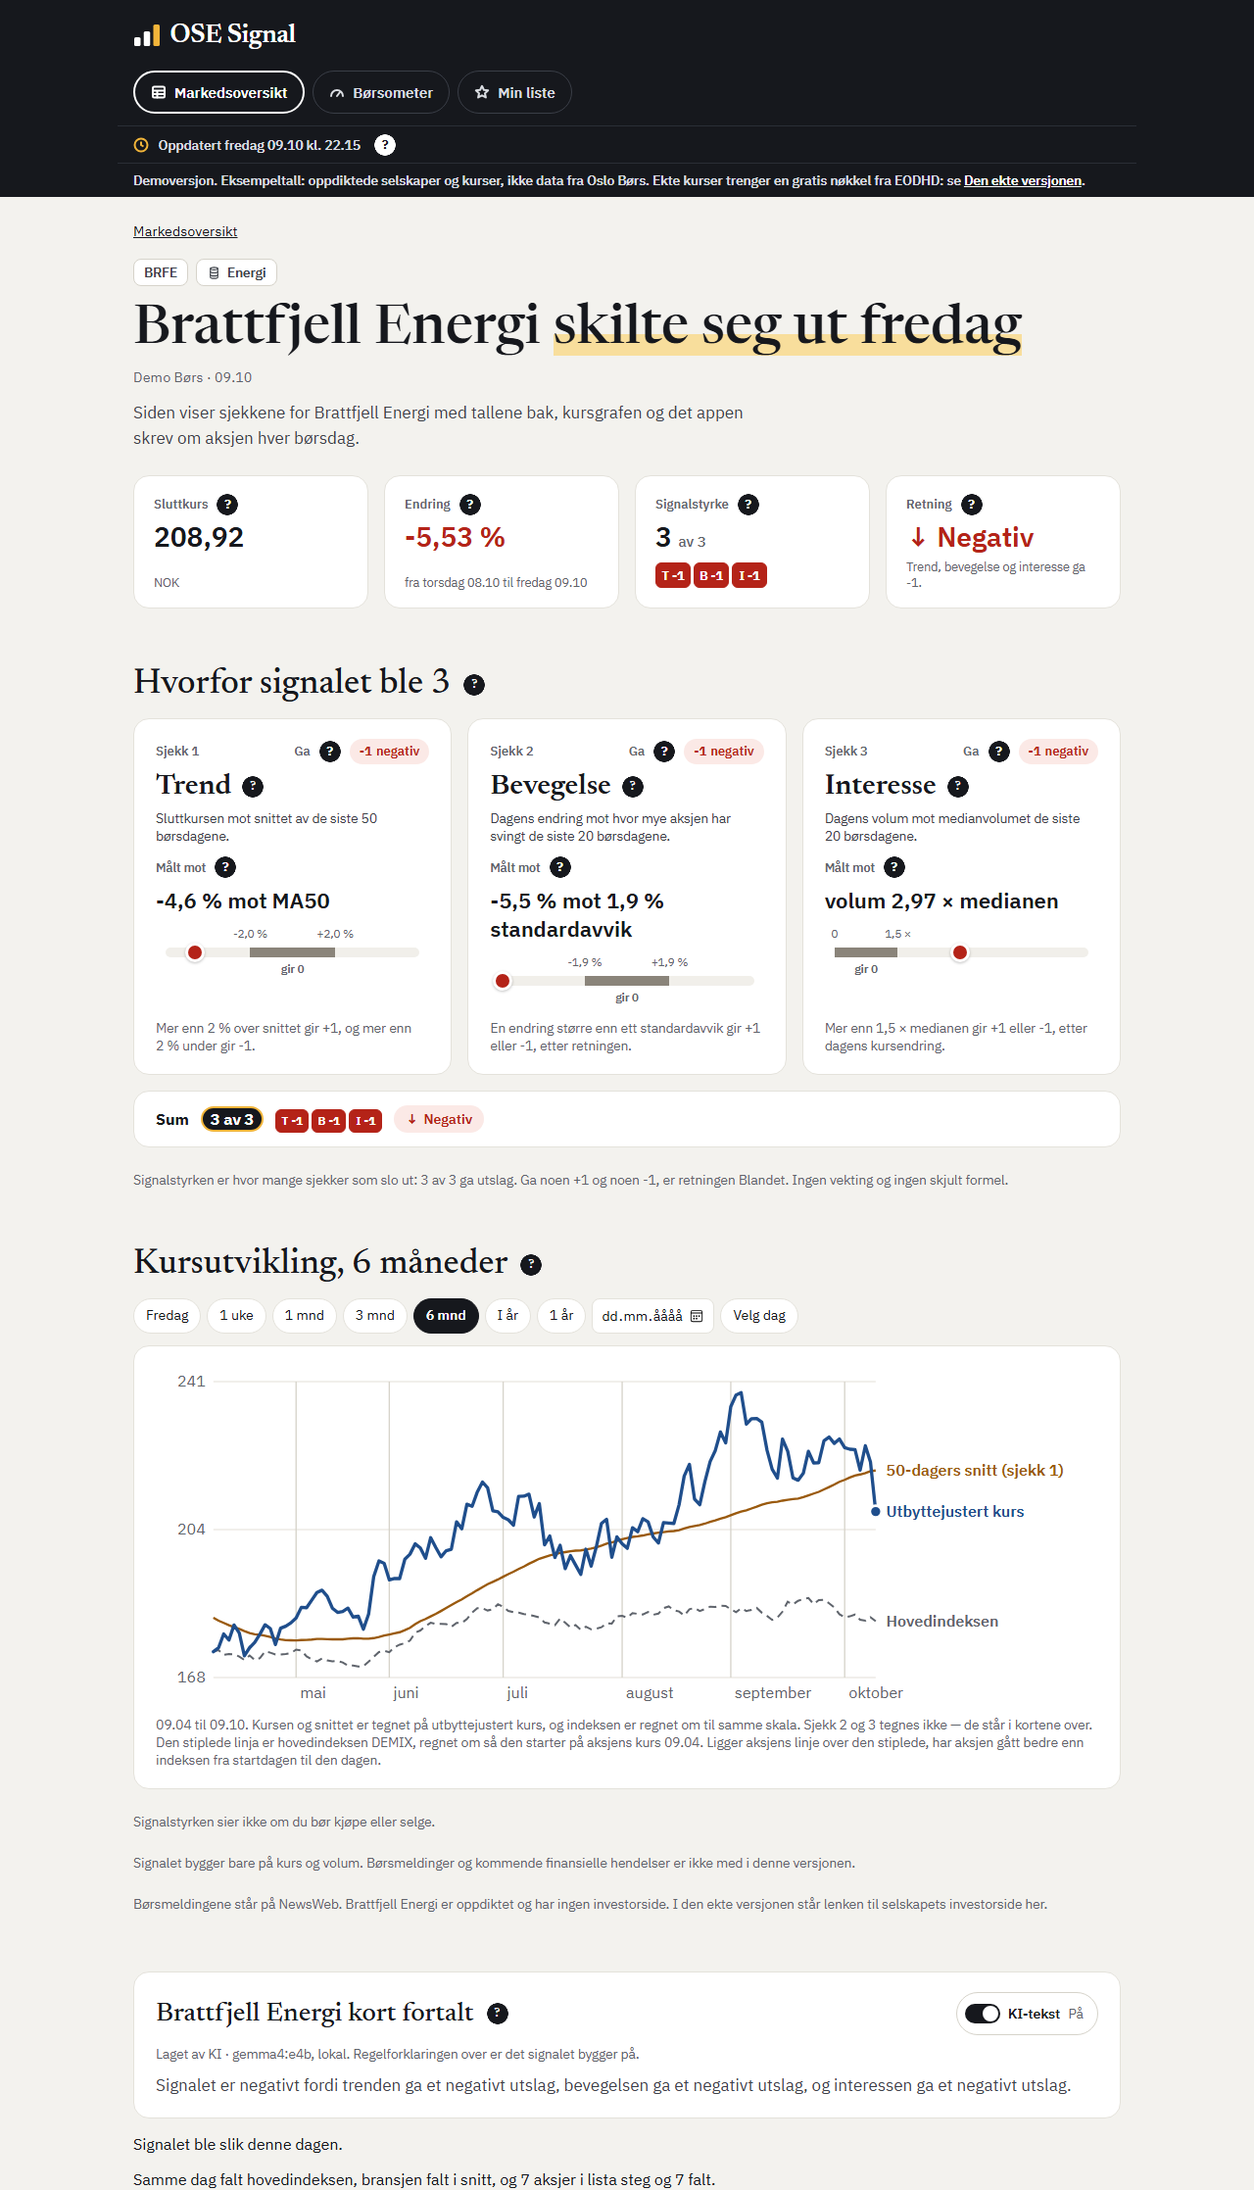
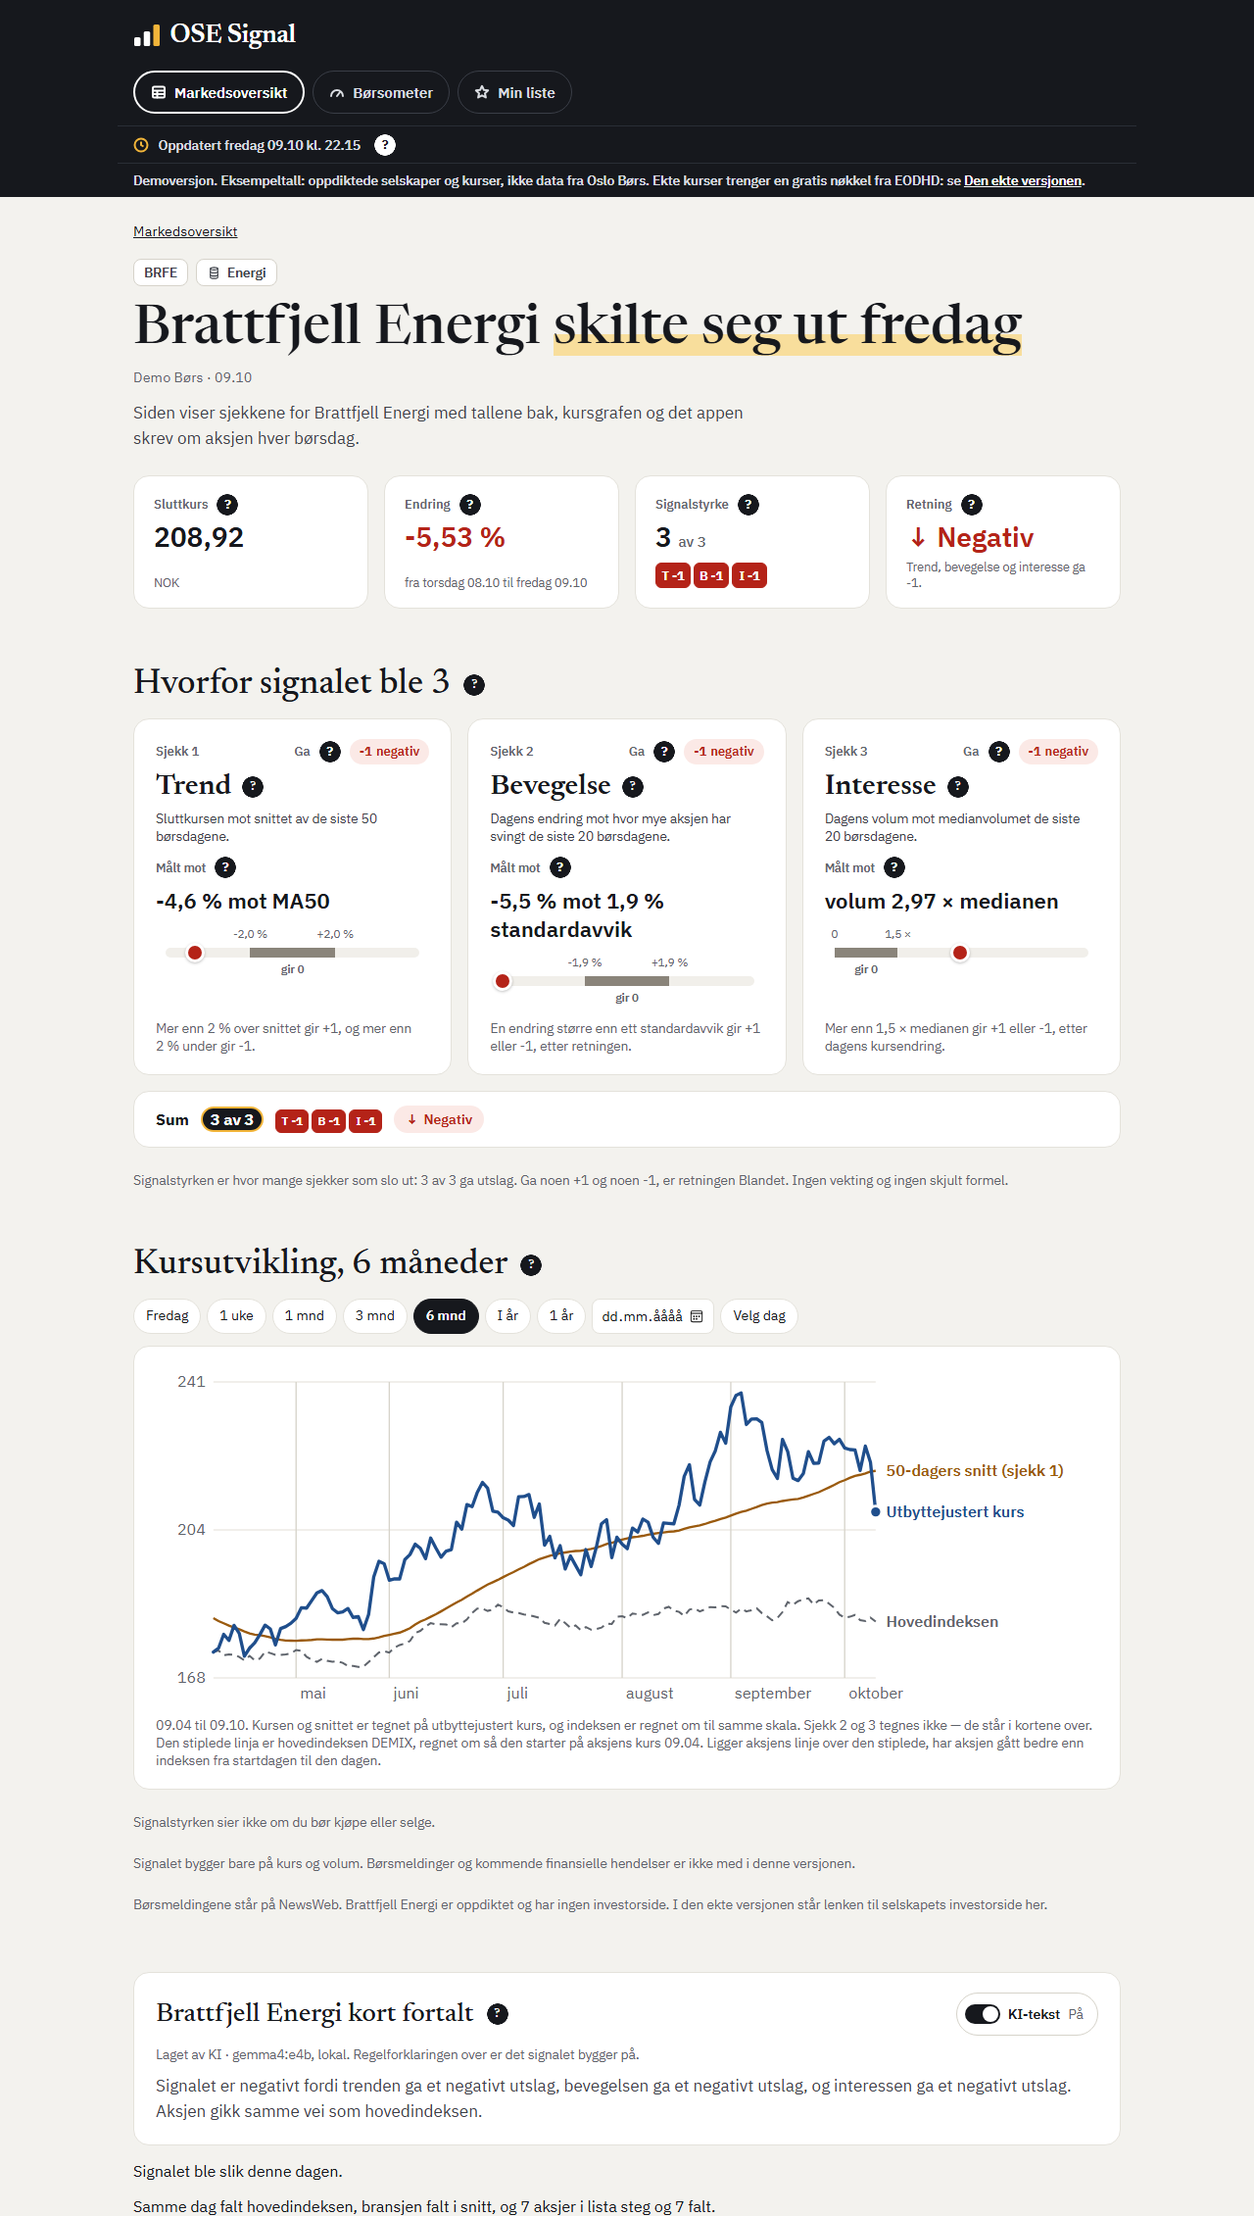
10.2i c: modellen får ferdig ordlyd om aksjen gikk samme vei som hovedindeksen eller motsatt
Gruppens svar 5.11 kl. 19:13: ordlyd_om_hovedindeksen i ki_prompt.py gir «Aksjen
gikk samme vei som hovedindeksen.» eller «Aksjen gikk motsatt vei av
hovedindeksen.», bare når begge steg eller begge falt eller den ene steg og den
andre falt, som ordlyden for dagene i versjon 3. Den står på en egen linje etter
opplysningene, og reglene sier at teksten bruker den ordrett eller ikke sier noe
om hovedindeksen, bransjen, børsen eller antallet aksjer. Avtrykket dekker
ordlyden og funksjonen. PROMPTVERSJON står som 4. Demotekstene er laget på nytt
med Gemma (13 av 13 besto), og bildet av BRFE er 2261 px.

diff --git a/tests/test_ki_modell.py b/tests/test_ki_modell.py
@@ -15,7 +15,16 @@ import pytest
 
 from ki_kontroll import AARSAKER, GJETNING, RAAD, kontroller
 from ki_modell import Modell, ModellFeilet, Modellsvar, lag_ki_rad
-from ki_prompt import PROMPTVERSJON, REGLER, UTENFOR, lag_prompt
+from ki_prompt import (
+    MOTSATT_VEI,
+    ORDLYDEN,
+    PROMPTVERSJON,
+    REGLER,
+    SAMME_VEI,
+    UTENFOR,
+    lag_prompt,
+    ordlyd_om_hovedindeksen,
+)
 from kilogg import Emne
 
 EMNE = Emne.aksje("EQNR", date(2026, 10, 15))
@@ -59,15 +68,28 @@ AVTRYKK = {
     # Story 10.2i, svarene 5.11 kl. 19:13 og 23:36 (b): aksjen i opplysningene,
     # og linja om dagen rundt aksjen er tatt ut. Versjonen staar som 4, fordi
     # versjon 4 ikke er flettet. Var 0df61d8f....
[1 lines of base64/hex data omitted]
+    # Story 10.2i, svaret 5.11 kl. 19:13 (c): ordlyden om hovedindeksen, med
+    # funksjonen som velger den, og to linjer i reglene. Versjonen staar som 4.
+    # Var 50a0ec0e....
[1 lines of base64/hex data omitted]
 }
 
 
 def _promptteksten() -> str:
     """Det avtrykket for versjon 3 dekker: reglene, merket og koden i
     lag_prompt (inspect leser kildeteksten med LF). Svaret 25.10 kl. 00:51:
-    ordlyden for dagene er tatt ut av prompten, og dermed av avtrykket."""
-    return REGLER + UTENFOR + inspect.getsource(lag_prompt)
+    ordlyden for dagene er tatt ut av prompten, og dermed av avtrykket.
+    Story 10.2i: ordlyden om hovedindeksen og funksjonen som velger den er
+    med, som i demo_ki.promptavtrykk."""
+    return (
+        REGLER
+        + UTENFOR
+        + inspect.getsource(lag_prompt)
+        + SAMME_VEI
+        + MOTSATT_VEI
+        + ORDLYDEN
+        + inspect.getsource(ordlyd_om_hovedindeksen)
+    )
 
 
 class FalskModell:
@@ -162,7 +184,7 @@ class TestPrompten:
         versjon, fanger test_versjonen_foelger_teksten (gjennomgangen, BH12,
         ECH7)."""
         assert PROMPTVERSJON == "4"
[2 lines of base64/hex data omitted]
         assert AVTRYKK["4"] != AVTRYKK["3"]
 
     def test_modellen_skriver_ikke_om_dagen(self):
@@ -179,6 +201,79 @@ class TestPrompten:
         ikke_forklarer = "- Hovedindeksen og bransjen er ikke en del av regelen. Ikke si at de forklarer signalet."
         reglene = REGLER.split("Regler for teksten:", 1)[1].splitlines()
         assert reglene.count(ikke_forklarer) == 1
+
+    @pytest.mark.parametrize(
+        "aksjen, indeksen, ordlyd",
+        [
+            ("steg", "steg", SAMME_VEI),
+            ("falt", "falt", SAMME_VEI),
+            ("steg", "falt", MOTSATT_VEI),
+            ("falt", "steg", MOTSATT_VEI),
+            ("uendret", "steg", None),
+            ("falt", "uendret", None),
+            ("uendret", "uendret", None),
+            (None, "steg", None),
+            ("steg", None, None),
+            (None, None, None),
+        ],
+    )
+    def test_ordlyden_om_hovedindeksen(self, aksjen, indeksen, ordlyd):
+        """Story 10.2i, gruppens svar 5.11 kl. 19:13: appen gir ferdig ordlyd
+        om aksjen gikk samme vei som hovedindeksen eller motsatt, bare naar
+        begge steg eller falt. Ville feilet hvis retningene ble byttet (steg
+        og falt ga samme vei), eller en ordlyd ble gitt naar en av dem var
+        uendret eller mangler."""
+        grunnlag = dict(BLANDET)
+        for felt, verdi in (("aksjen", aksjen), ("hovedindeksen", indeksen)):
+            if verdi is not None:
+                grunnlag[felt] = verdi
+        assert ordlyd_om_hovedindeksen(grunnlag) == ordlyd
+
+    def test_ordlyden_er_hele_setninger(self):
+        """Laerdommen fra tredje forsoek av versjon 3 (§44): ordlyden ble satt
+        inn midt i en setning. Ville feilet hvis ordlyden ikke var en hel
+        setning med stor forbokstav og punktum, eller de to var like."""
+        for ordlyd in (SAMME_VEI, MOTSATT_VEI):
+            assert ordlyd[0].isupper() and ordlyd.endswith(".") and ordlyd.count(".") == 1
+            assert "hovedindeksen" in ordlyd
+        assert SAMME_VEI != MOTSATT_VEI
+
+    def test_ordlyden_staar_i_prompten_bare_naar_den_finnes(self):
+        """Ville feilet hvis prompten manglet linja med ordlyden naar
+        grunnlaget gir den, hadde den naar det ikke gjoer det, eller hadde
+        den andre ordlyden enn den grunnlaget gir."""
+        samme = {**BLANDET, "hovedindeksen": "falt", "aksjen": "falt"}
+        motsatt = {**BLANDET, "hovedindeksen": "falt", "aksjen": "steg"}
+        prompt = lag_prompt(samme)
+        assert prompt.endswith(ORDLYDEN.format(ordlyd=SAMME_VEI))
+        assert ORDLYDEN.format(ordlyd=SAMME_VEI) == f"\nOrdlyden om hovedindeksen: {SAMME_VEI}\n"
+        assert MOTSATT_VEI not in prompt
+        assert lag_prompt(motsatt).endswith(ORDLYDEN.format(ordlyd=MOTSATT_VEI))
+        assert SAMME_VEI not in lag_prompt(motsatt)
+        for grunnlag in (BLANDET, {**BLANDET, "hovedindeksen": "steg", "aksjen": "uendret"}):
+            etter = lag_prompt(grunnlag).split("Opplysningene:", 1)[1]
+            assert "Ordlyden om hovedindeksen" not in etter
+            assert SAMME_VEI not in lag_prompt(grunnlag) and MOTSATT_VEI not in lag_prompt(grunnlag)
+        # Med merket kommer ordlyden fortsatt etter opplysningene.
+        med_merket = lag_prompt({**samme, "merke": "Utenfor målingen"})
+        assert med_merket.endswith(ORDLYDEN.format(ordlyd=SAMME_VEI))
+
+    def test_reglene_sier_ordrett_eller_ikke(self):
+        """Ville feilet hvis reglene ikke sa at hovedindeksen bare nevnes med
+        ordlyden, ordrett, og at bransjen, boersen og antallet aksjer ikke
+        nevnes, eller linjene ikke kom med i prompten."""
+        reglene = REGLER.split("Regler for teksten:", 1)[1].splitlines()
+        ordrett = (
+            "- Om hovedindeksen kan teksten bare bruke setningen etter «Ordlyden om hovedindeksen:» under "
+            "opplysningene, ordrett og som en egen setning, eller ikke si noe om hovedindeksen. Står det ingen "
+            "ordlyd, skal teksten ikke si noe om hovedindeksen."
+        )
+        ikke = (
+            "- Ikke si noe om bransjen, børsen eller hvor mange aksjer som steg eller falt. "
+            "Appen skriver det selv under teksten."
+        )
+        assert reglene.count(ordrett) == 1 and reglene.count(ikke) == 1
+        assert ordrett in lag_prompt(BLANDET) and ikke in lag_prompt(BLANDET)
 
     def test_reglene_forklarer_hvert_felt_i_grunnlaget(self):
         """Story 10.2e: ville feilet hvis grunnlaget hadde et felt reglene

diff --git a/tests/test_docker.py b/tests/test_docker.py
@@ -1141,7 +1141,9 @@ HOEYDE_PAA_BILDET = 1864
 # hjelpen om 1079 px i hjelpetekster.py. Bildet ble tatt paa nytt og er byte for byte det samme.
 # Story 10.2i b: hjelpen «Kort fortalt» i hjelpetekster.py sier hva modellen faar.
 # Bildet ble tatt paa nytt og er byte for byte det samme.
[1 lines of base64/hex data omitted]
+# Story 10.2i c: hjelpen «Kort fortalt» nevner ordlyden. Bildet ble tatt paa nytt
+# og er byte for byte det samme.
[1 lines of base64/hex data omitted]
 SLIK_TAS_BILDET = (
     "Oversikten er endret, så skjermbildet viser noe annet enn demoen. Ta "
     f"{SKJERMBILDET} på nytt etter «Bildet» i spesifikasjonen 3.3b: demobasen i en "
@@ -1226,7 +1228,9 @@ IKKE_BAK_AKSJESIDEN = {"src/lagring_fil.py", "src/eodhd.py", "src/boersometer.py
 # Story 10.2i b: demotekstene laget paa nytt uten setningen om dagen, saa
 # teksten for BRFE er én linje kortere. Bunnen av p.samme-dag er 2234,2 px,
 # maalt paa samme maate. Var 2261.
-HOEYDE_PAA_AKSJESIDEN = 2235
+# Story 10.2i c: teksten for BRFE har ordlyden om hovedindeksen, saa den er én
+# linje lengre. Bunnen av p.samme-dag er 2260,5 px, maalt paa samme maate. Var 2235.
+HOEYDE_PAA_AKSJESIDEN = 2261
 # Story 2.3, kl. 22 fra 20.10: stripa sier kl. 22.15 igjen, ikke 21.15.
 # Story 10.5: lenken til investorsiden står under grafen, ved 1980 px målt i
 # Edge uten vindu, så bildet, som slutter ved bunnen av grafen (1872 px), ble
@@ -1442,7 +1446,9 @@ HOEYDE_PAA_AKSJESIDEN = 2235
 # dagene.py, app.py og aksje.html. Bildet ble tatt paa nytt og er 2261 px hoeyt.
 # Story 10.2i b: aksjen i dagene.py, hjelpen i hjelpetekster.py og demotekstene.
 # Bildet ble tatt paa nytt og er 2235 px hoeyt.
[1 lines of base64/hex data omitted]
+# Story 10.2i c: ordlyden om hovedindeksen i demo_ki.py, hjelpetekster.py og
+# demotekstene. Bildet ble tatt paa nytt og er 2261 px hoeyt.
[1 lines of base64/hex data omitted]
 SLIK_TAS_AKSJESIDEN = (
     "Aksjesiden er endret, så bildet av den viser noe annet enn demoen. Ta "
     f"{AKSJESIDEBILDET} på nytt med fremgangsmåten i spesifikasjonen 3.3b, mot /aksje/BRFE: "
@@ -1484,12 +1490,14 @@ DE_NYE_BILDENE = {
 # ble tatt paa nytt og er byte for byte de samme.
 # Story 10.2i b: dagene.py, hjelpetekster.py og demotekstene. Alle bildene ble tatt
 # paa nytt og er byte for byte de samme.
+# Story 10.2i c: demo_ki.py, hjelpetekster.py og demotekstene. Alle bildene ble
+# tatt paa nytt og er byte for byte de samme.
 AVTRYKK_BAK_DE_NYE_BILDENE = {
[10 lines of base64/hex data omitted]
 }
 SLIK_TAS_DE_NYE_BILDENE = (
     "Siden bak {bildet} er endret, så bildet viser noe annet enn demoen. Ta det på nytt som "

diff --git a/src/ki_prompt.py b/src/ki_prompt.py
@@ -106,6 +106,16 @@ selv under teksten (setning_om_samme_dag i dagene.py). Versjonen staar som 4,
 fordi versjon 4 ikke er flettet og ingen tekst i ose.db har versjon 4, som
 unntaket i 10.2f-10.2h foer versjon 3 var i bruk. Avtrykket og demotekstene
 er laget paa nytt.
+
+Versjon 4, ordlyden om hovedindeksen (gruppens svar 5.11 kl. 19:13): modellen
+faar ferdig ordlyd, laget her av grunnlaget (ordlyd_om_hovedindeksen), om
+aksjen gikk samme vei som hovedindeksen eller motsatt, som ordlyden for
+dagene i tredje forsoek av versjon 3. Ordlyden er en hel setning, saa den
+ikke settes inn i en annen setning, slik ordlyden for dagene ble (§44). Den
+gis bare naar baade aksjen og hovedindeksen steg eller falt, og reglene sier
+at teksten bruker den ordrett eller ikke sier noe om hovedindeksen.
+Kontrollen i FR-603 bruker den samme funksjonen. Ordlyden og funksjonen er
+med i avtrykket (VG2 i 10.2e). Versjonen staar som 4, av samme grunn som over.
 """
 
 import json
@@ -134,6 +144,8 @@ Regler for teksten:
 - Når retningen er Ingen, skriv at signalet ikke har noen retning.
 - Bruk bare opplysningene under. Skriv utslagene med ord, ikke som tall. Ikke nevn kurser, prosenter eller andre tall enn antallene i opplysningene og regelens faste tall.
 - Siden viser kursen, endringen og målingene. Du kan vise til dem, for eksempel «se endringen i tabellen», men ikke gjenta tallene.
+- Om hovedindeksen kan teksten bare bruke setningen etter «Ordlyden om hovedindeksen:» under opplysningene, ordrett og som en egen setning, eller ikke si noe om hovedindeksen. Står det ingen ordlyd, skal teksten ikke si noe om hovedindeksen.
+- Ikke si noe om bransjen, børsen eller hvor mange aksjer som steg eller falt. Appen skriver det selv under teksten.
 - Hovedindeksen og bransjen er ikke en del av regelen. Ikke si at de forklarer signalet.
 - Ikke si hvor lenge signalet har vart, om det er nytt, eller om det er første gang. Siden sier under teksten hvor lenge signalet har vart.
 - Ikke gi råd om å kjøpe, selge eller holde, og ikke si noe om hva som vil skje.
@@ -144,10 +156,31 @@ Regler for teksten:
 
 UTENFOR = "\nAksjen er ikke blant aksjene grensene er målt på. Si at grensene ikke er målt på denne aksjen.\n"
 
+# Story 10.2i (gruppens svar 5.11 kl. 19:13): ordlyden appen gir om
+# hovedindeksen, som en hel setning, og linja den staar paa i prompten.
+SAMME_VEI = "Aksjen gikk samme vei som hovedindeksen."
+MOTSATT_VEI = "Aksjen gikk motsatt vei av hovedindeksen."
+ORDLYDEN = "\nOrdlyden om hovedindeksen: {ordlyd}\n"
+
+
+def ordlyd_om_hovedindeksen(grunnlag: Mapping[str, object]) -> str | None:
+    """SAMME_VEI naar aksjen og hovedindeksen begge steg eller begge falt,
+    MOTSATT_VEI naar den ene steg og den andre falt, og ellers None: ogsaa
+    naar en av dem var uendret eller mangler."""
+    aksjen, indeksen = grunnlag.get("aksjen"), grunnlag.get("hovedindeksen")
+    if aksjen not in ("steg", "falt") or indeksen not in ("steg", "falt"):
+        return None
+    return SAMME_VEI if aksjen == indeksen else MOTSATT_VEI
+
 
 def lag_prompt(grunnlag: Mapping[str, object]) -> str:
-    """Reglene og grunnlaget som JSON. Ingenting annet kommer med."""
+    """Reglene, grunnlaget som JSON og ordlyden om hovedindeksen naar den
+    finnes. Ingenting annet kommer med."""
     prompt = REGLER
     if grunnlag.get("merke"):
         prompt += UTENFOR
-    return prompt + "\nOpplysningene:\n" + json.dumps(dict(grunnlag), ensure_ascii=False, sort_keys=True) + "\n"
+    prompt += "\nOpplysningene:\n" + json.dumps(dict(grunnlag), ensure_ascii=False, sort_keys=True) + "\n"
+    ordlyd = ordlyd_om_hovedindeksen(grunnlag)
+    if ordlyd:
+        prompt += ORDLYDEN.format(ordlyd=ordlyd)
+    return prompt

diff --git a/src/demo_ki.py b/src/demo_ki.py
@@ -92,15 +92,25 @@ _SHA256 = re.compile(r"[0-9a-f]{64}")
 
 
 def promptavtrykk() -> str:
-    """sha256 av prompten slik den er naa: reglene, merket og koden i
-    lag_prompt (inspect leser kildeteksten med LF), det samme som avtrykket
+    """sha256 av prompten slik den er naa: reglene, merket, koden i
+    lag_prompt, og fra 10.2i ordlyden om hovedindeksen med koden som velger
+    den (inspect leser kildeteksten med LF), det samme som avtrykket
     for versjonen i tests/test_ki_modell.py dekker. ki_prompt importeres her,
     ikke oeverst, saa webserveren ikke laster den (AD-10)."""
     import inspect
 
     import ki_prompt
 
-    tekst = ki_prompt.REGLER + ki_prompt.UTENFOR + inspect.getsource(ki_prompt.lag_prompt)
+    # Story 10.2i: ogsaa ordlyden om hovedindeksen og funksjonen som velger den.
+    tekst = (
+        ki_prompt.REGLER
+        + ki_prompt.UTENFOR
+        + inspect.getsource(ki_prompt.lag_prompt)
+        + ki_prompt.SAMME_VEI
+        + ki_prompt.MOTSATT_VEI
+        + ki_prompt.ORDLYDEN
+        + inspect.getsource(ki_prompt.ordlyd_om_hovedindeksen)
+    )
     return hashlib.sha256(tekst.encode("utf-8")).hexdigest()
 
 

diff --git a/src/hjelpetekster.py b/src/hjelpetekster.py
@@ -577,7 +577,8 @@ def hjelpetekster(p: Parametre = STANDARD) -> dict[str, Hjelpetekst]:
             "en kort tekst om signalet for aksjen den dagen, skrevet av en språkmodell og merket "
             "«Laget av KI» med navnet på modellen. Modellen fikk bare det appen har regnet ut: om hver "
             "av sjekkene ga +1, 0 eller -1, styrken og retningen, om hovedindeksen og aksjen selv steg "
-            "eller falt den dagen når det kan regnes, og et merke når aksjen "
+            "eller falt den dagen når det kan regnes, med en ferdig setning om aksjen gikk samme vei som "
+            "hovedindeksen eller motsatt, og et merke når aksjen "
             "er utenfor de 15 grensene er målt på, men ingen kurser, prosenter eller volumer. Tallene med prikket strek er sjekket mot det før teksten vises, "
             "og teksten gir ikke råd.",
             (

diff --git a/docs/hjelp.md b/docs/hjelp.md
@@ -179,7 +179,7 @@ Nederst på aksjesiden står «Signalet dag for dag»: det appen skrev om aksjen
 
 ### Hva er «kort fortalt» på aksjesiden?
 
-Under grafen står «<navnet> kort fortalt», for eksempel «Brattfjell Energi kort fortalt», når KI-teksten er på. Det er en kort tekst om signalet for aksjen den dagen, skrevet av en språkmodell og merket «Laget av KI» med navnet på modellen. Modellen fikk bare det appen har regnet ut: om hver av sjekkene ga +1, 0 eller -1, styrken og retningen, om hovedindeksen og aksjen selv steg eller falt den dagen når det kan regnes, og et merke når aksjen er utenfor de 15 grensene er målt på, men ingen kurser, prosenter eller volumer. Tallene med prikket strek er sjekket mot det før teksten vises, og teksten gir ikke råd. «?» ved overskriften sier det samme. Det gjelder både demoen og den ekte versjonen.
+Under grafen står «<navnet> kort fortalt», for eksempel «Brattfjell Energi kort fortalt», når KI-teksten er på. Det er en kort tekst om signalet for aksjen den dagen, skrevet av en språkmodell og merket «Laget av KI» med navnet på modellen. Modellen fikk bare det appen har regnet ut: om hver av sjekkene ga +1, 0 eller -1, styrken og retningen, om hovedindeksen og aksjen selv steg eller falt den dagen når det kan regnes, med en ferdig setning om aksjen gikk samme vei som hovedindeksen eller motsatt, og et merke når aksjen er utenfor de 15 grensene er målt på, men ingen kurser, prosenter eller volumer. Tallene med prikket strek er sjekket mot det før teksten vises, og teksten gir ikke råd. «?» ved overskriften sier det samme. Det gjelder både demoen og den ekte versjonen.
 
 Under teksten skriver appen selv, også når KI-teksten er av, hvor lenge signalet har vært slik og hva hovedindeksen, bransjen og antallet aksjer i lista som steg og falt gjorde samme dag. De to setningene er ikke laget av KI, og de sier ikke at dagen forklarer signalet.
 
